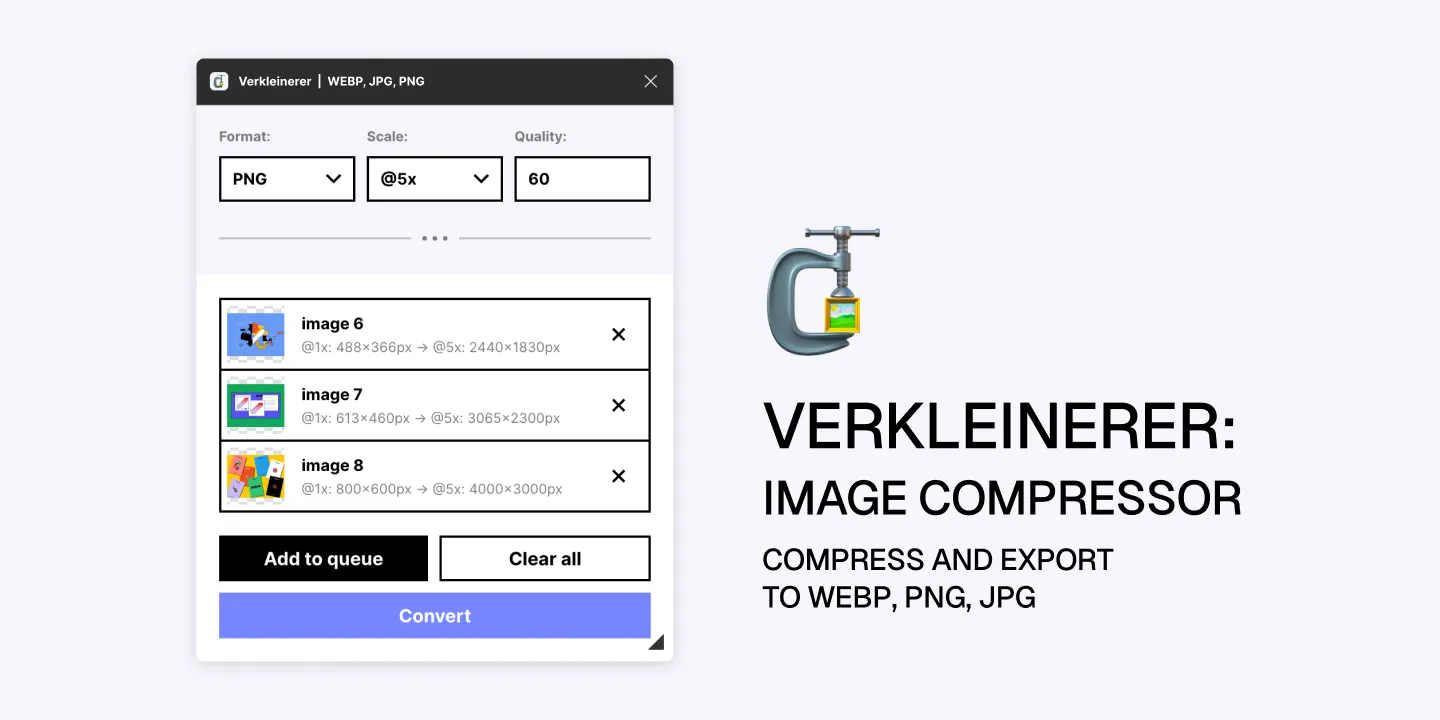
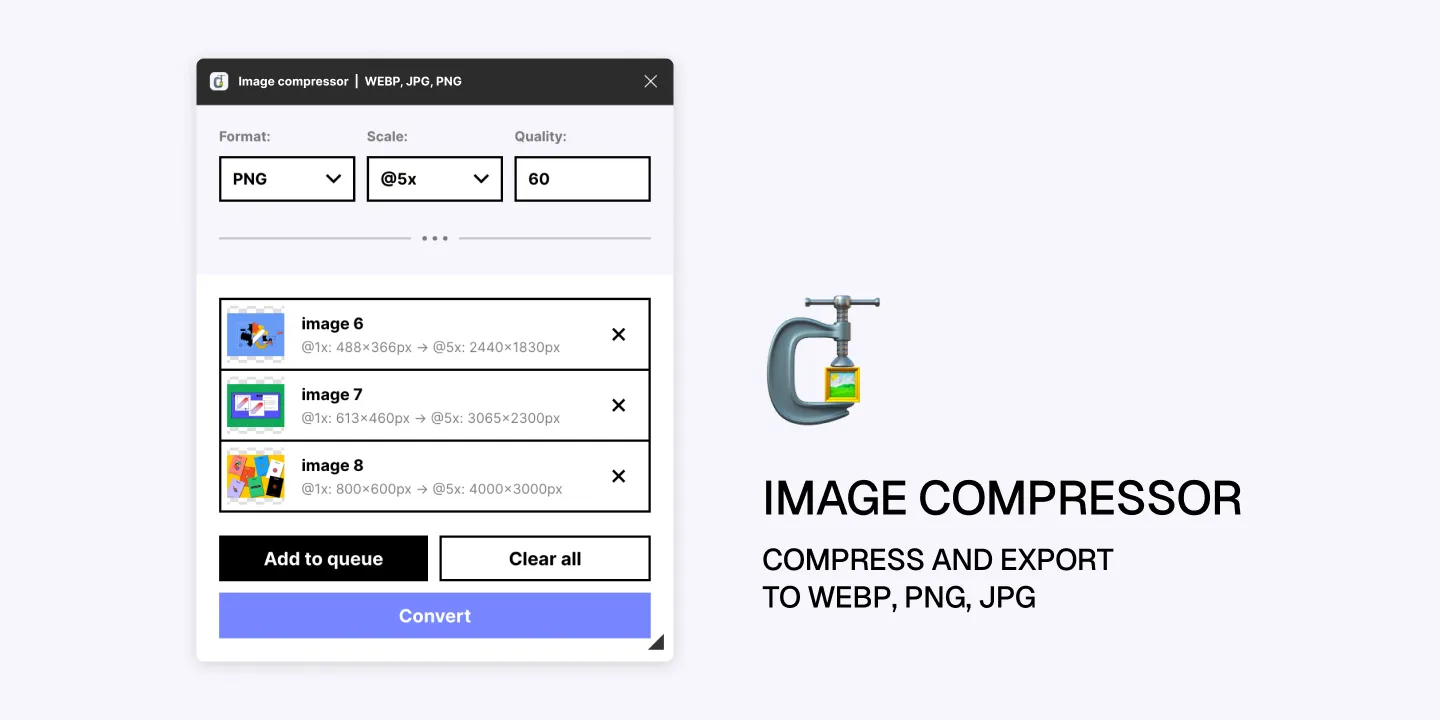
name updated

Changed region(s): [[0.5312, 0.3056, 0.875, 0.6417], [0.1562, 0.0917, 0.3125, 0.1222]]

diff --git a/README.md b/README.md
@@ -1,4 +1,4 @@
-# Verkleinerer — Image Compressor
+# Image Compressor
 
 ![Plugin preview](preview.webp)
 
